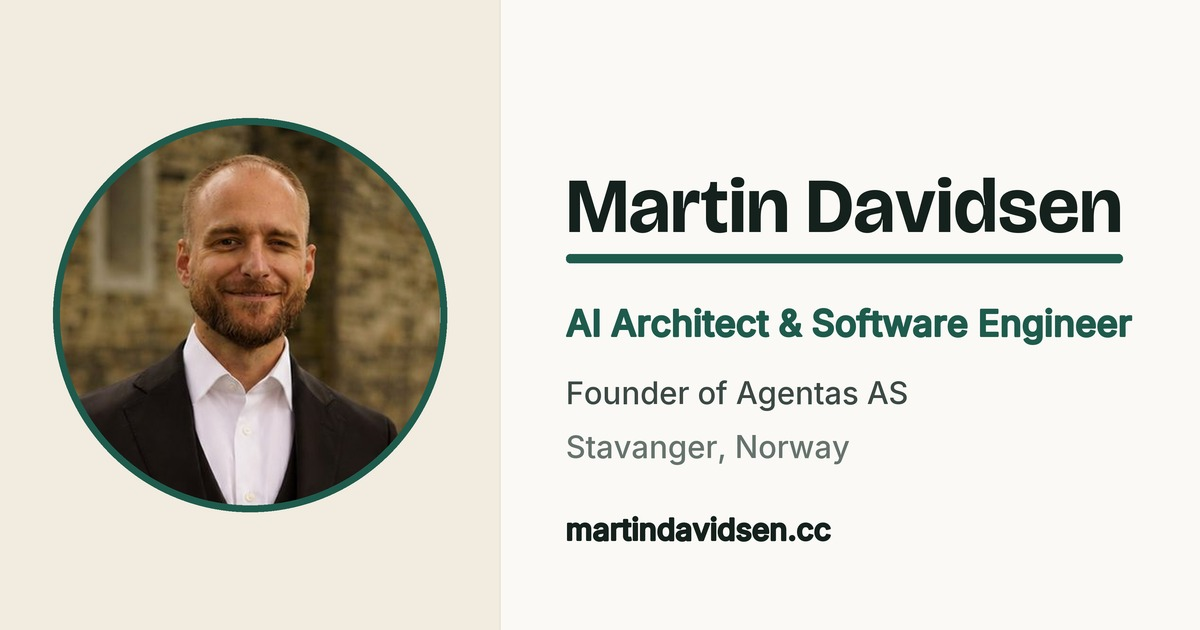
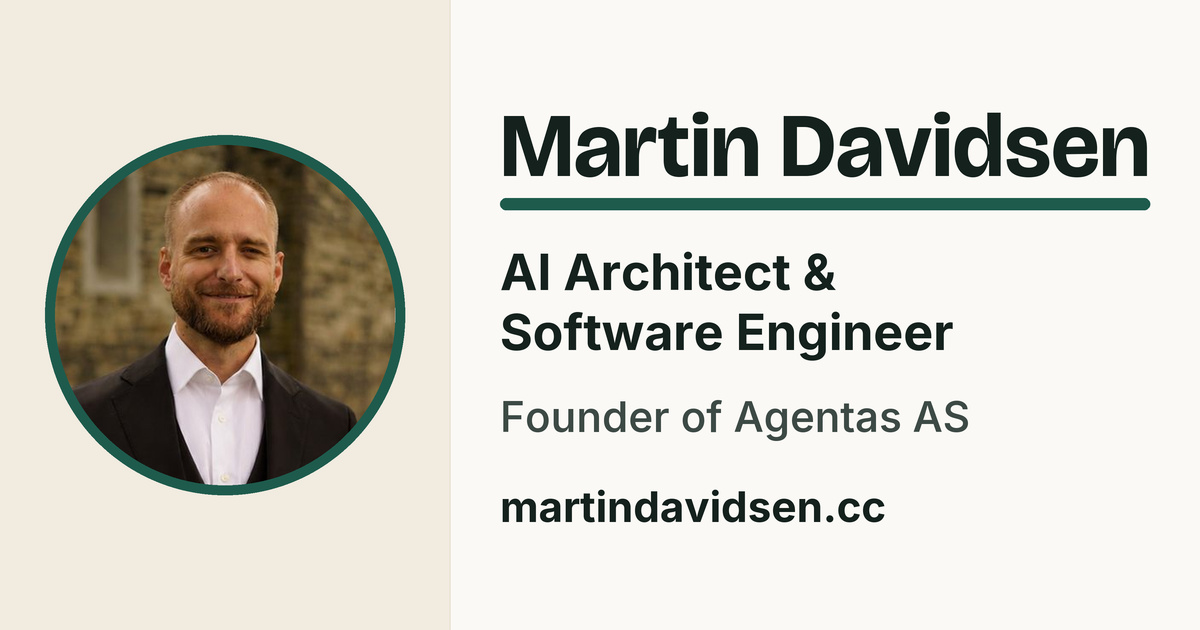
portfolio: sharper share card, portrait first on phones
The share card was blurry on LinkedIn: bigger bold dark text, the role on two
lines, one secondary line, q95 4:4:4 (og ?v=4). On phones the hero portrait now
comes before the name, with the 'Now building' note hanging off its bottom edge
(styles.css ?v=15). Contact email stays as is.

Changed region(s): [[0.0308, 0.181, 0.9558, 0.8143], [0.4008, 0.6032, 0.8017, 0.754], [0.4008, 0.7841, 0.74, 0.8746]]

diff --git a/index.html b/index.html
@@ -14,16 +14,16 @@
     <meta property="og:description" content="AI Architect & Software Engineer in Stavanger, Norway. AI architecture, LLM systems, full-stack software and industrial automation.">
     <meta property="og:type" content="website">
     <meta property="og:url" content="https://martindavidsen.cc/">
-    <meta property="og:image" content="https://martindavidsen.cc/images/og-card.jpg?v=3">
+    <meta property="og:image" content="https://martindavidsen.cc/images/og-card.jpg?v=4">
     <meta property="og:image:width" content="1200">
     <meta property="og:image:height" content="630">
     <meta property="og:image:type" content="image/jpeg">
     <meta property="og:image:alt" content="Martin Davidsen — AI Architect & Software Engineer">
     <meta name="twitter:card" content="summary_large_image">
-    <meta name="twitter:image" content="https://martindavidsen.cc/images/og-card.jpg?v=3">
+    <meta name="twitter:image" content="https://martindavidsen.cc/images/og-card.jpg?v=4">
     <link rel="preload" as="font" type="font/woff2" href="fonts/inter-latin-var.woff2" crossorigin>
     <link rel="preload" as="font" type="font/woff2" href="fonts/bricolage-latin-var.woff2" crossorigin>
-    <link rel="stylesheet" href="styles.css?v=14">
+    <link rel="stylesheet" href="styles.css?v=15">
     <script type="application/ld+json">
     {
       "@context": "https://schema.org",
@@ -31,7 +31,7 @@
       "name": "Martin Davidsen",
       "jobTitle": "AI Architect & Software Engineer",
       "url": "https://martindavidsen.cc",
-      "image": "https://martindavidsen.cc/images/og-card.jpg?v=3",
+      "image": "https://martindavidsen.cc/images/og-card.jpg?v=4",
       "address": { "@type": "PostalAddress", "addressLocality": "Stavanger", "addressCountry": "NO" },
       "sameAs": [
         "https://linkedin.com/in/martin-davidsen-51425a111",

diff --git a/styles.css b/styles.css
@@ -386,9 +386,9 @@ button:focus-visible {
 @media (max-width: 900px) {
     #hero { padding: 104px 0 56px; background: var(--bg-primary); }
     .hero-grid { grid-template-columns: 1fr; gap: 44px; }
-    .hero-visual { justify-self: start; max-width: 340px; }
+    .hero-visual { order: -1; justify-self: start; max-width: 260px; }
     .hero-stats { gap: 28px; }
-    .hero-now { left: 12px; }
+    .hero-now { left: 12px; bottom: -18px; }
 }
 
 /* ---- Sections Common ---- */

diff --git a/gen-og-card.py b/gen-og-card.py
@@ -1,26 +1,32 @@
 # -*- coding: utf-8 -*-
 """Generate the martindavidsen.cc Open Graph share card (images/og-card.jpg).
 
-Photo-forward card: circular headshot left, name/role/location right, on the
-site's own :root palette from styles.css (sand + fjord green since the 2026-09
-restyle), with --accent as a photo ring + an underline under the name and the
-name set in the site's display face. Final image 1200x630 (Open Graph spec).
+Photo-forward card: circular headshot left; name, role (two lines), "Founder of
+Agentas AS" and the domain right, on the site's own :root palette from styles.css
+(sand + fjord green since the 2026-09 restyle), with --accent as a photo ring and
+an underline under the name, and the name in the site's display face.
+Final image 1200x630 (Open Graph spec).
 
-CRISPNESS (learned on the agentas card, 2026-09-02): LinkedIn downscales the
-card to ~500px + re-encodes, so render SUPERSAMPLED (3x -> LANCZOS), keep the
-background flat, use bold high-contrast type. Eyeball a ~523x274 JPEG of the
-output before shipping - that's what platforms actually show.
+CRISPNESS: LinkedIn shows the card at ~520px wide from its own low-res,
+re-compressed copy, so everything must survive a ~45% downscale plus a lossy
+re-encode (2026-09-28: the first green card, with 31px secondary lines and green
+role text, came out blurry there). Rules:
+- render SUPERSAMPLED (3x -> LANCZOS) on flat backgrounds;
+- no text below ~40px on the 1200px canvas, and bold weights;
+- TEXT IN DARK INK, not the accent: JPEG chroma subsampling smears coloured
+  strokes; keep colour for big shapes (ring, underline);
+- save JPEG q95 with 4:4:4 chroma (subsampling=0) so our generation adds no smear.
+Eyeball a ~520px, low-quality JPEG of the output before shipping.
 
 Headshot source = images/martin-400.jpg (the site's own headshot crop; ~1:1
-with the final circle so the supersample roundtrip is lossless). Fonts =
-_assets/inter.ttf (gitignored; copy of the agentas-sites ogcard-gen font) and
-_assets/bricolage.ttf (gitignored; fonts/bricolage-latin-var.woff2 decompressed
-with fontTools: TTFont(woff2).flavor = None; .save(ttf)).
+with the final circle). Fonts (gitignored _assets/, made from the site's own
+woff2 files with fontTools: TTFont(woff2).flavor = None; .save(ttf)):
+_assets/inter-var.ttf (fonts/inter-latin-var.woff2) and _assets/bricolage.ttf
+(fonts/bricolage-latin-var.woff2).
 Root *.py files are NOT served (Dockerfile COPYs an explicit file list).
 
-og-card.jpg is UNVERSIONED in the head by default and CF-edge-cached - this
-refresh switched the og:image/twitter:image/JSON-LD refs to `?v=N` so a regen
-just bumps N (no Cloudflare purge). Overwrite = bump N in index.html.
+og:image/twitter:image/JSON-LD reference the card as `?v=N`; a regen = bump N in
+index.html (no Cloudflare purge), then re-scrape in LinkedIn's Post Inspector.
 
     python gen-og-card.py
 """
@@ -28,7 +34,7 @@ import os
 from PIL import Image, ImageDraw, ImageFont
 
 ROOT = os.path.dirname(os.path.abspath(__file__))
-FONT = os.path.join(ROOT, '_assets', 'inter.ttf')
+TEXT_FONT = os.path.join(ROOT, '_assets', 'inter-var.ttf')
 DISPLAY_FONT = os.path.join(ROOT, '_assets', 'bricolage.ttf')
 PHOTO = os.path.join(ROOT, 'images', 'martin-400.jpg')
 OUT = os.path.join(ROOT, 'images', 'og-card.jpg')
@@ -38,40 +44,45 @@ BG = (251, 249, 245)          # --bg-primary
 BG2 = (241, 235, 224)         # --bg-secondary
 INK = (20, 33, 29)            # --text-primary
 SECONDARY = (60, 73, 68)      # --text-secondary
-MUTED = (102, 115, 109)       # --text-muted
 ACCENT = (30, 91, 77)         # --accent            #1e5b4d
 BORDER = (230, 222, 208)      # --border
 
 SS = 3
 W, H = 1200 * SS, 630 * SS
-inter = lambda s: ImageFont.truetype(FONT, s * SS)
+
+
+def inter(s, weight):
+    f = ImageFont.truetype(TEXT_FONT, s * SS)
+    f.set_variation_by_axes([weight])        # axes: wght
+    return f
 
 
 def display(s, weight=700):
     f = ImageFont.truetype(DISPLAY_FONT, s * SS)
-    f.set_variation_by_axes([96, weight])   # axes: opsz, wght
+    f.set_variation_by_axes([96, weight])    # axes: opsz, wght
     return f
 
 
 img = Image.new('RGB', (W, H), BG)
 d = ImageDraw.Draw(img)
-grad = Image.new('RGB', (W, H), ACCENT)
+accent = Image.new('RGB', (W, H), ACCENT)
 
-# --- soft --bg-secondary wash on the photo half (flat, no fine texture) ---
-d.rectangle([0, 0, 500 * SS, H], fill=BG2)
-d.line([(500 * SS, 0), (500 * SS, H)], fill=BORDER, width=1 * SS)
+# --- flat --bg-secondary panel behind the photo ---
+PANEL = 450 * SS
+d.rectangle([0, 0, PANEL, H], fill=BG2)
+d.line([(PANEL, 0), (PANEL, H)], fill=BORDER, width=1 * SS)
 
 # --- circular headshot, accent ring ---
-CIRCLE = 380 * SS
-cx, cy = 250 * SS, H // 2                      # circle center
-px, py = cx - CIRCLE // 2, cy - CIRCLE // 2    # photo top-left
-RING = 7 * SS
+CIRCLE = 340 * SS
+cx, cy = PANEL // 2, H // 2
+px, py = cx - CIRCLE // 2, cy - CIRCLE // 2
+RING = 10 * SS
 
 ring_mask = Image.new('L', (W, H), 0)
 rd = ImageDraw.Draw(ring_mask)
 rd.ellipse([px - RING, py - RING, px + CIRCLE + RING, py + CIRCLE + RING], fill=255)
 rd.ellipse([px, py, px + CIRCLE, py + CIRCLE], fill=0)
-img.paste(grad, (0, 0), ring_mask)
+img.paste(accent, (0, 0), ring_mask)
 
 photo = Image.open(PHOTO).convert('RGB').resize((CIRCLE, CIRCLE), Image.LANCZOS)
 photo_mask = Image.new('L', (CIRCLE, CIRCLE), 0)
@@ -80,27 +91,26 @@ img.paste(photo, (px, py), photo_mask)
 d = ImageDraw.Draw(img)
 
 # --- text block, right ---
-TX = 566 * SS
-name_f = display(78)
-d.text((TX, 232 * SS), 'Martin Davidsen', font=name_f, fill=INK, anchor='ls')
-name_w = d.textlength('Martin Davidsen', font=name_f)
+TX = 500 * SS
+RIGHT = W - 48 * SS
+name, name_px = 'Martin Davidsen', 92
+while d.textlength(name, font=display(name_px)) > RIGHT - TX:
+    name_px -= 1
+name_f = display(name_px)
+d.text((TX, 176 * SS), name, font=name_f, fill=INK, anchor='ls')
+name_w = d.textlength(name, font=name_f)
 
-# accent underline under the name
-uy = 254 * SS
 bar_mask = Image.new('L', (W, H), 0)
-ImageDraw.Draw(bar_mask).rounded_rectangle([TX, uy, TX + name_w, uy + 9 * SS], radius=4 * SS, fill=255)
-img.paste(grad, (0, 0), bar_mask)
+ImageDraw.Draw(bar_mask).rounded_rectangle([TX, 198 * SS, TX + name_w, 210 * SS], radius=6 * SS, fill=255)
+img.paste(accent, (0, 0), bar_mask)
 d = ImageDraw.Draw(img)
 
-role = 'AI Architect & Software Engineer'
-role_px = 44
-while d.textlength(role, font=inter(role_px)) > W - TX - 56 * SS:  # shrink to fit the right panel
-    role_px -= 1
-d.text((TX, 336 * SS), role, font=inter(role_px), fill=ACCENT, anchor='ls', stroke_width=1 * SS)
-d.text((TX, 404 * SS), 'Founder of Agentas AS', font=inter(31), fill=SECONDARY, anchor='ls')
-d.text((TX, 458 * SS), 'Stavanger, Norway', font=inter(31), fill=MUTED, anchor='ls')
-d.text((TX, 540 * SS), 'martindavidsen.cc', font=inter(30), fill=INK, anchor='ls', stroke_width=1 * SS)
+role_f = inter(50, 700)
+d.text((TX, 290 * SS), 'AI Architect &', font=role_f, fill=INK, anchor='ls')
+d.text((TX, 350 * SS), 'Software Engineer', font=role_f, fill=INK, anchor='ls')
+d.text((TX, 432 * SS), 'Founder of Agentas AS', font=inter(42, 550), fill=SECONDARY, anchor='ls')
+d.text((TX, 522 * SS), 'martindavidsen.cc', font=inter(42, 700), fill=INK, anchor='ls')
 
 img = img.resize((1200, 630), Image.LANCZOS)
-img.save(OUT, quality=92, optimize=True)
+img.save(OUT, quality=95, subsampling=0, optimize=True)
 print('wrote', OUT, '(1200x630, rendered at %dx)' % SS)

diff --git a/OrientationMap.md b/OrientationMap.md
@@ -1,6 +1,8 @@
 # OrientationMap — martin-portfolio (martindavidsen.cc)
 
-_Last verified: 2026-09-28 — **Nordic restyle** (user picked mockup 3 of 4): sand + fjord-green `:root` palette, Bricolage Grotesque display face (self-hosted) + Inter body, soft borderless cards, pill buttons, portrait hero with a "Now building" link (no more apex composite), status/tags/counts as plain text; OG card + favicons regenerated green (og `?v=3`, icons `?v=2`); `styles.css?v=14`. Detail → RJ 2026-09-28b._
+_Last verified: 2026-09-28c — OG card re-laid-out for LinkedIn legibility (bigger/bolder DARK text, 2-line role, q95 4:4:4 → `?v=4`); phones show the hero portrait FIRST (`order:-1`, 260px, note hangs off its bottom edge); `styles.css?v=15`; contact email stays Gmail (user). Detail → RJ 2026-09-28c._
+
+_(prior 2026-09-28b) **Nordic restyle** (user picked mockup 3 of 4): sand + fjord-green `:root` palette, Bricolage Grotesque display face (self-hosted) + Inter body, soft borderless cards, pill buttons, portrait hero with a "Now building" link (no more apex composite), status/tags/counts as plain text; OG card + favicons regenerated green (og `?v=3`, icons `?v=2`); `styles.css?v=14`. Detail → RJ 2026-09-28b._
 
 _(prior 2026-09-25c) personal title → **"AI Architect & Software Engineer"** (NO "KI-arkitekt og programvareingeniør"; user's pick, matches agentas.net founder line; CV/LinkedIn via the career session): hero-role, about-role, <title>, meta/OG/alt, JSON-LD jobTitle; `gen-og-card.py` role line now auto-shrinks to fit → og-card `?v=2`. Detail → RJ 2026-09-25c._
 
@@ -86,12 +88,14 @@ tests). No `NavigationMap.md` — this file stays under the ~20 KB split line.
 - **Look & tokens** — the palette, radii and shadows live in `:root` (`styles.css`); components use
   the tokens, so a colour change is a token change. Status (`.ai-badge`, `.modal-badge`), tech tags
   (`.service-tags`) and accordion counts (`.ai-cat-count`) render as PLAIN TEXT per the no-badges
-  rule — don't reintroduce pills.
+  rule — don't reintroduce pills. Hero: DOM order is text then `.hero-visual` (portrait +
+  `.hero-now` link); at ≤900px CSS `order: -1` shows the portrait FIRST (user's call via
+  "as you recommend", 2026-09-28) — screen readers still get the name first.
 
 ## Conventions / gotchas
 
 - **Cache-bust:** `styles.css?v=N` + `script.js?v=N` in `index.html` — bump on any functional
-  CSS/JS change (currently **v=14 / v=6**). Image `data-shot`s carry `?v=1`; new image = new
+  CSS/JS change (currently **v=15 / v=6**). Image `data-shot`s carry `?v=1`; new image = new
   filename instead of bump.
 - **UNVERSIONED files + Cloudflare cache:** assets are served `Cache-Control: immutable, 30d`
   and Cloudflare caches them at the edge; the HTML is `no-cache` (nginx `expires -1` in `location /`).
@@ -106,8 +110,9 @@ tests). No `NavigationMap.md` — this file stays under the ~20 KB split line.
   `gen-og-card.py` — regenerate, don't hand-edit; its palette constants mirror `:root` BY HAND
   (change both). Renders SUPERSAMPLED (3×→LANCZOS) on flat bgs so it stays crisp after LinkedIn's
   ~500px downscale (rule learned on the agentas-sites cards, see that repo's KB §SEO). Needs
-  `_assets/inter.ttf` + `_assets/bricolage.ttf` (gitignored; the latter = the site woff2
-  decompressed with fontTools; root `.py`/`_assets/` are never served — Dockerfile COPYs an
+  `_assets/inter-var.ttf` + `_assets/bricolage.ttf` (gitignored; both = the site's woff2 files
+  decompressed with fontTools). LinkedIn legibility rules (≥40px text, dark ink not accent-coloured
+  text, q95 4:4:4) are in the script's docstring; root `.py`/`_assets/` are never served — Dockerfile COPYs an
   explicit list). Favicons (`favicon.svg/-32.png/.ico`, `apple-touch-icon.png`) are hand-made
   to match the nav monogram (green circle, white "MD"). After a regen: bump `?v=` on og:image + twitter:image + JSON-LD `image`, then a
   LinkedIn Post-Inspector re-scrape.

diff --git a/Testing.md b/Testing.md
@@ -1,18 +1,21 @@
 # martin-portfolio — Pending Tests (unconfirmed)
 
-_Last verified: 2026-09-28 — one pending item below (LinkedIn re-scrape of the green OG card).
+_Last verified: 2026-09-28c — one pending item below (LinkedIn re-scrape of the re-laid-out OG card).
 Everything else is live and verified._
 
-## LinkedIn preview shows the NEW (green) OG card
-- **Context:** the 2026-09-28 Nordic restyle regenerated `images/og-card.jpg` via
-  `gen-og-card.py` (sand + fjord-green palette, name in Bricolage Grotesque) and bumped it to
-  `?v=3`. LinkedIn keeps the card from its last scrape until it is asked to re-scrape.
+## LinkedIn preview of the OG card is SHARP (card `?v=4`)
+- **Context:** the first green card (`?v=3`) showed up on LinkedIn but blurry (user, 2026-09-28).
+  `gen-og-card.py` was re-laid-out for legibility: name bigger, role on two lines in bold DARK
+  text, one "Founder of Agentas AS" line (the "Stavanger, Norway" line is gone), domain in bold,
+  thicker ring, saved at JPEG q95 with full colour detail (4:4:4). Referenced as `?v=4`.
 - **Repro (needs a LinkedIn login):** https://www.linkedin.com/post-inspector/ → inspect
   `https://martindavidsen.cc/` (forces a fresh scrape).
-- **Pass criteria:** the preview shows the NEW card: warm sand/off-white background, green ring
-  around the headshot, green underline under "Martin Davidsen", role "AI Architect & Software
-  Engineer" in green; crisp, with no ingestion warnings. (Blue ring/underline = old card = fail.)
-- **Already machine-verified (do not re-test):** card is 1200×630 JPEG and crisp in a simulated
-  LinkedIn downscale (~523×274); head `og:image`/`twitter:image` and JSON-LD `image` all carry
-  `?v=3`; the crawl chain is known-good from earlier scrapes.
-- On confirmation: note the result in `ResearchJournal.md` (2026-09-28b) and DELETE this entry.
+- **Pass criteria:** the preview shows the NEW layout (role split over two lines, no
+  "Stavanger, Norway" line) and "Founder of Agentas AS" and "martindavidsen.cc" are readable
+  without squinting. Old layout (role on one green line + a Stavanger line) = LinkedIn still
+  cached `?v=3`: inspect again.
+- **Already machine-verified (do not re-test):** 1200×630 JPEG, q95 4:4:4; head `og:image`,
+  `twitter:image` and JSON-LD `image` carry `?v=4`; under a harsh local stand-in for LinkedIn
+  (≈400px copy, JPEG q60, shown at 520px) every line is legible, where `?v=3` was not.
+- On pass: move the KnowledgeBase OG-legibility HYP to FACT, note it in `ResearchJournal.md`
+  (2026-09-28c) and DELETE this entry. On fail: go bigger still / drop the founder line.

diff --git a/KnowledgeBase.md b/KnowledgeBase.md
@@ -56,7 +56,9 @@ code — code wins any conflict.
   `opsz,wght` (77 KB) — the opsz axis matters: without it large headings lose
   their display cut.
 - **[FACT]** **Email is base64-assembled at runtime** into `#cc-email` — the
-  plaintext stays out of the committed source (bot-harvest defense).
+  plaintext stays out of the committed source (bot-harvest defense). The address is
+  `davidsen908@gmail.com` ON PURPOSE (user, 2026-09-28): the one exception to the career
+  canon's martin@agentas.net — don't "unify" it.
 - **[FACT]** **Cache-bust discipline:** `styles.css?v=N` + `script.js?v=N` in
   `index.html` — bump on any functional CSS/JS change (current N lives in
   OrientationMap/code — code wins). Assets serve `immutable, 30d` and are
@@ -73,10 +75,18 @@ code — code wins any conflict.
   RGB values are copied into the script by hand (2026-09-28: sand + fjord green). Rendered SUPERSAMPLED (3×→LANCZOS, flat
   backgrounds) because LinkedIn downscales cards to ~500px + re-encodes — fine
   detail turns to mush (rule established on the agentas-sites cards the same
-  day, incl. the eyeball-check: downscale to ~523×274 JPEG q85 and look at
-  THAT). Regen = rerun + bump `?v=` (og:image, twitter:image, JSON-LD `image`)
-  + LinkedIn Post-Inspector re-scrape. Needs `_assets/inter.ttf` + `_assets/bricolage.ttf`
-  (gitignored; the latter = `fonts/bricolage-latin-var.woff2` saved with `flavor=None`).
+  day). Regen = rerun + bump `?v=` (og:image, twitter:image, JSON-LD `image`)
+  + LinkedIn Post-Inspector re-scrape. Needs `_assets/inter-var.ttf` + `_assets/bricolage.ttf`
+  (gitignored; both = the site's woff2 saved with fontTools `flavor=None`).
+- **[FACT]** LinkedIn's Post Inspector shows the card SOFTER than a plain ~523px
+  LANCZOS + JPEG q85 downscale: the 2026-09-28 green card (31px secondary lines, green
+  role text) passed that local check yet the user saw it blurry on LinkedIn. So the local
+  check must be harsher (≈400px copy, JPEG q60, upscaled to 520).
+- **[HYP 70%]** Text ≥40px on the 1200px canvas, bold weights, dark ink instead of
+  accent-coloured text (chroma subsampling smears coloured strokes) and a q95 4:4:4 source
+  make the card read sharp on LinkedIn. Evidence: under the harsh local check the `?v=4`
+  card is clearly legible where `?v=3` was not. Settles with the pending LinkedIn re-scrape
+  (Testing.md).
 - **[FACT]** **Marketing-safe images only** — no client names / repo paths /
   failing tests visible (same rule as agentas-sites).
 - **[FACT]** **Private & On-Prem AI pillar (added 2026-08-19) is framed as

diff --git a/ToDo.md b/ToDo.md
@@ -13,12 +13,17 @@ the hero-products follow-up — that image left the site with it.)_
   re-shoots, copy the new file in under a NEW name (e.g. `aurly-3.webp`) and repoint the card.
 
 ## Blocked / needs the user
-- [ ] **Contact email — which address?** The contact card assembles `davidsen908@gmail.com`
-  (`script.js` `atob`), but the career canon (2026-09-03) made `martin@agentas.net` the one
-  public contact on LinkedIn/GitHub. Keep Gmail here on purpose, or switch?
-- [ ] **Phone hero** — shipped as mocked: on phones the portrait (with the "Now building" link)
-  sits below the text, stats and buttons, i.e. under the first screen. Keep, or move a smaller
-  portrait up above the name?
+- [ ] **Desktop hero background — pick A / B / C** (2026-09-28). User: the hard-edged sand block
+  behind the rounded portrait looks odd; maybe wider / further left. It also runs straight into
+  the sand About section, so the text area reads as a cut-out. Options (desktop ≥901px only;
+  hero background becomes plain `--bg-primary` in all three, so the hero ends cleanly before
+  About): **A** a rounded (40px) sand panel behind the portrait, reaching 84px left of it
+  (40–57px clear of the name at 1024–1440) — recommended; **B** a full-height panel from 54%
+  with a 72px rounded bottom-left corner, stopping 64px above the hero bottom; **C** no panel,
+  a large soft sand circle behind the portrait. Each option's CSS is the last `<style>` block in
+  `drafts/mockups/hero-{a,b,c}.html` (gitignored, local only; open from disk to compare). Implementing = move
+  the chosen block into the `#hero`/`.hero-visual` rules in `styles.css`, drop the split
+  gradient, bump `?v=`.
 - [ ] **Smaller style carry-overs from the apex 09-25 pass — proposed, awaiting OK:**
   section padding 120→80px (apex: "too much space between sections"); `h1,h2,h3
   { text-wrap: balance }`; drop the 01–04 numbers on the `#focus` cards (the Nordic mockup

diff --git a/ResearchJournal.md b/ResearchJournal.md
@@ -287,3 +287,21 @@ Deployed `cd38c8c` (run 36380780205 green) and live-verified: all new assets 200
 both fonts, `martin-hero.jpg`, `og-card.jpg?v=3`, the four `?v=2` icons); headless Chrome on
 martindavidsen.cc at 1280 and 375 loads Inter + Bricolage, `--accent` = `#1e5b4d`, no console
 errors, no horizontal overflow.
+
+### 2026-09-28c — sharper OG card, portrait-first phones, Gmail stays
+- **OG card blurry on LinkedIn** (user screenshot of the Post Inspector, `?v=3`): the card was
+  the new one, but the 31px secondary lines and the green role line were mush. A plain
+  523px LANCZOS + q70 local downscale had looked fine, so LinkedIn degrades harder than that.
+  Re-laid-out in `gen-og-card.py`: name auto-fit up to 92px, role on two lines at 50px bold in
+  dark ink, "Founder of Agentas AS" 42px, domain 42px bold, "Stavanger, Norway" dropped, ring
+  10px, photo panel 450px; fonts now weight-controlled via `_assets/inter-var.ttf` (the site's
+  variable Inter; the old `_assets/inter.ttf` was a static Medium); saved q95 4:4:4 → `?v=4`.
+  Harsh local stand-in (400px copy, q60, shown at 520px): new card legible, old one not.
+  Pending the user's re-scrape (Testing.md).
+- **Phone hero** — user: "as you recommend" → portrait first on ≤900px (`order: -1`, 260px wide),
+  "Now building" note hangs 18px off the photo's bottom edge. Name still on the first screen at
+  375×812 and 320×640 (checked), 26px clear above the eyebrow at 375. `styles.css?v=15`.
+- **Contact email** — user: keep `davidsen908@gmail.com` on the portfolio (recorded in the KB and
+  in the career KB §1 as the deliberate exception).
+- **Desktop hero background** (user: hard sand block vs rounded photo looks odd) — three options
+  mocked (`hero_panel.py` → screenshots + `drafts/mockups/hero-*.html`), pick pending (ToDo).
